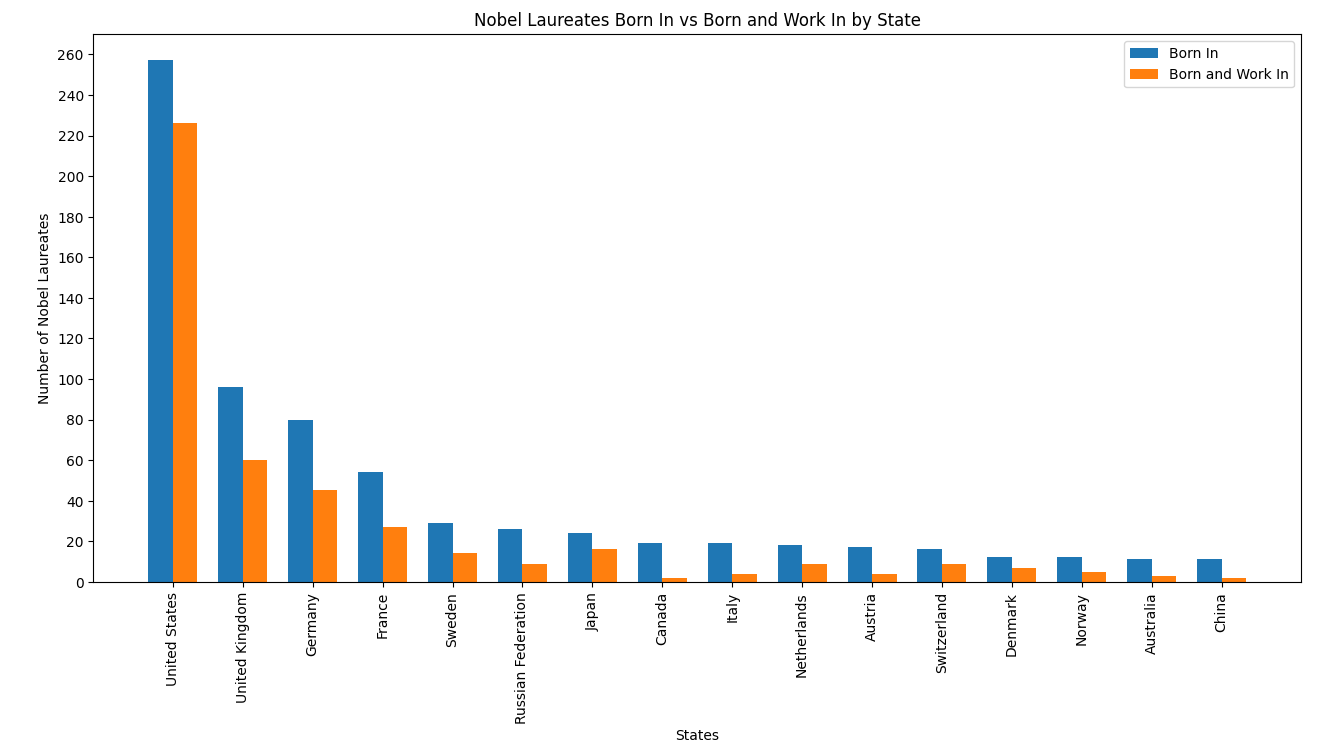
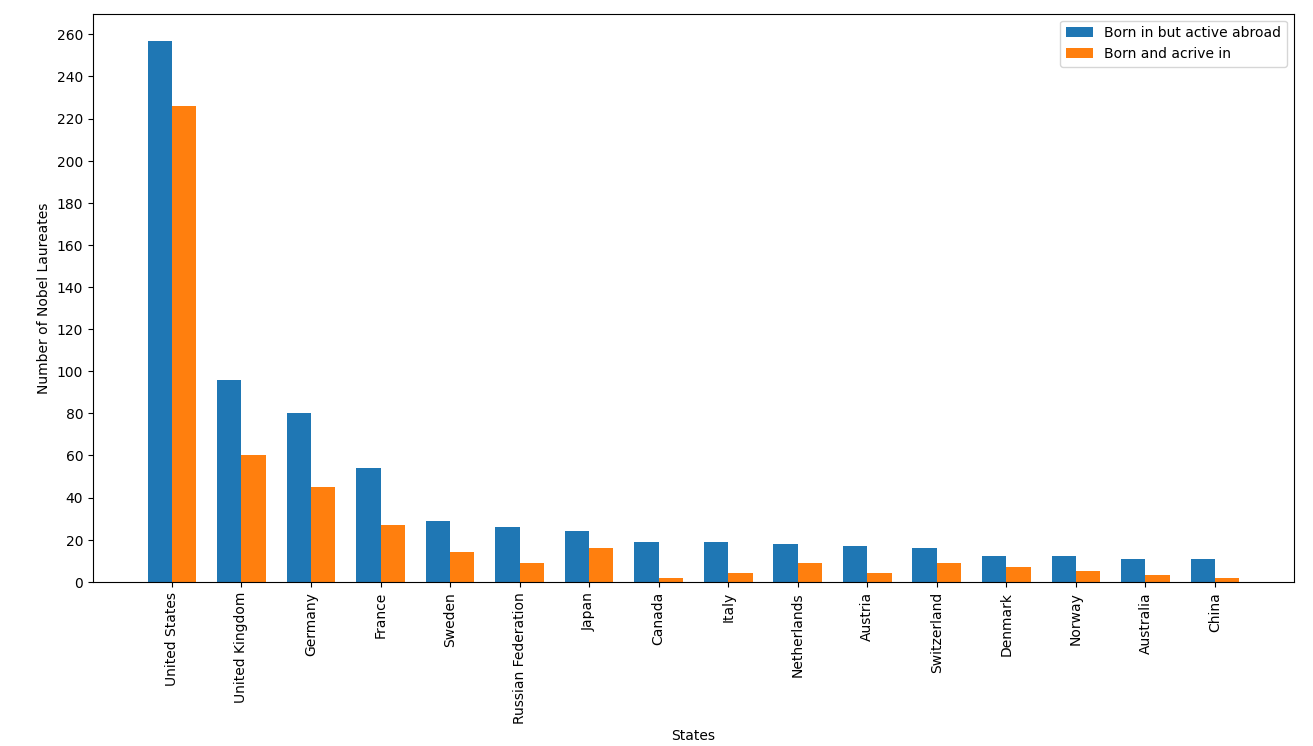
add laureates active abroad pdf

diff --git a/latex/sparql_query_and_analytics.tex b/latex/sparql_query_and_analytics.tex
@@ -627,8 +627,9 @@ This result demonstrates a lifetime of work in economics, highlighting how break
 often come from years and years of efforts and experience.
 
 \section{laureateAndOrgPerCountry}
-The following query returns, for each state, the number of laureates who were born in that state and the number of
-laureates who have worked in an organization located in that state, in addition to being born there.
+The following query returns, for each state, the number of laureates who were born in that state but conduct research abroad, and the number of
+laureates who were born in that state and conduct reasearch there.\\
+This allows us to understand how many Nobel Prize winners conducted research in their home country or abroad in order to earn the recognition.
 \begin{lstlisting}
 PREFIX : <http://www.semanticweb.org/a3d/ontologies/2024/10/nobelOntology/>
 PREFIX foaf: <http://xmlns.com/foaf/0.1/>
@@ -657,9 +658,34 @@ SELECT ?state ?bornIn ?bornAndWorkIn WHERE {
 } ORDER BY DESC (?bornIn)
 \end{lstlisting}
 
-\begin{figure}[ht]
+\noindent Figure \ref{fig:laureatesComparison} displays the data returned by the query, while table \ref{tab:laureates_active} reports the five states with the lowest percentage
+of laureates active in research in their home country.\\
+As expected, the US is the state with the most laureates and also with the highest percentage
+of laureates active in their home country (88\%), thanks to the large fundings allocated in R\&D, as seen before.\\
+An interesting fact is that Japan, despite being the 7th country in terms of Nobel Prizes won, manages to retain nearly 67\% of its laureates
+within its borders. On the other hand, Russia, despite being the 6th country in terms of Nobel Prizes won, has a retention rate of only 35\%.
+
+\begin{table}[h!]
+	\centering
+	\begin{tabular}{|c|c|c|c|c|}
+		\hline
+		\textbf{State}    & \textbf{Laureates} & \textbf{Laureates active in their home country} & \textbf{Percentage} \\ \hline
+		Canada & 19 & 2 & 10,5\% \\ \hline
+		China & 11 & 2 & 18,2\% \\ \hline
+        Italy & 19 & 4 & 21\% \\ \hline
+        Austria & 17 & 4 & 23,5\% \\ \hline
+        Australia & 11 & 3 & 27,3\% \\ \hline
+	\end{tabular}
+    \caption{How many laureates are active in research in their home country.}
+	\label{tab:laureates_active}
+\end{table}
+
+\begin{figure}[H]
 	\centering
 	\includegraphics[width=\textwidth]{../queries/plots/laureatesComparison.png}
+    \caption{The plot shows for each state two columns. The blue one indicates the number of laureates born in that state but active abroad.
+    The orange one indicates the number of laureates born and active in that state.}
+    \label{fig:laureatesComparison}
 \end{figure}
 
 \end{document}
